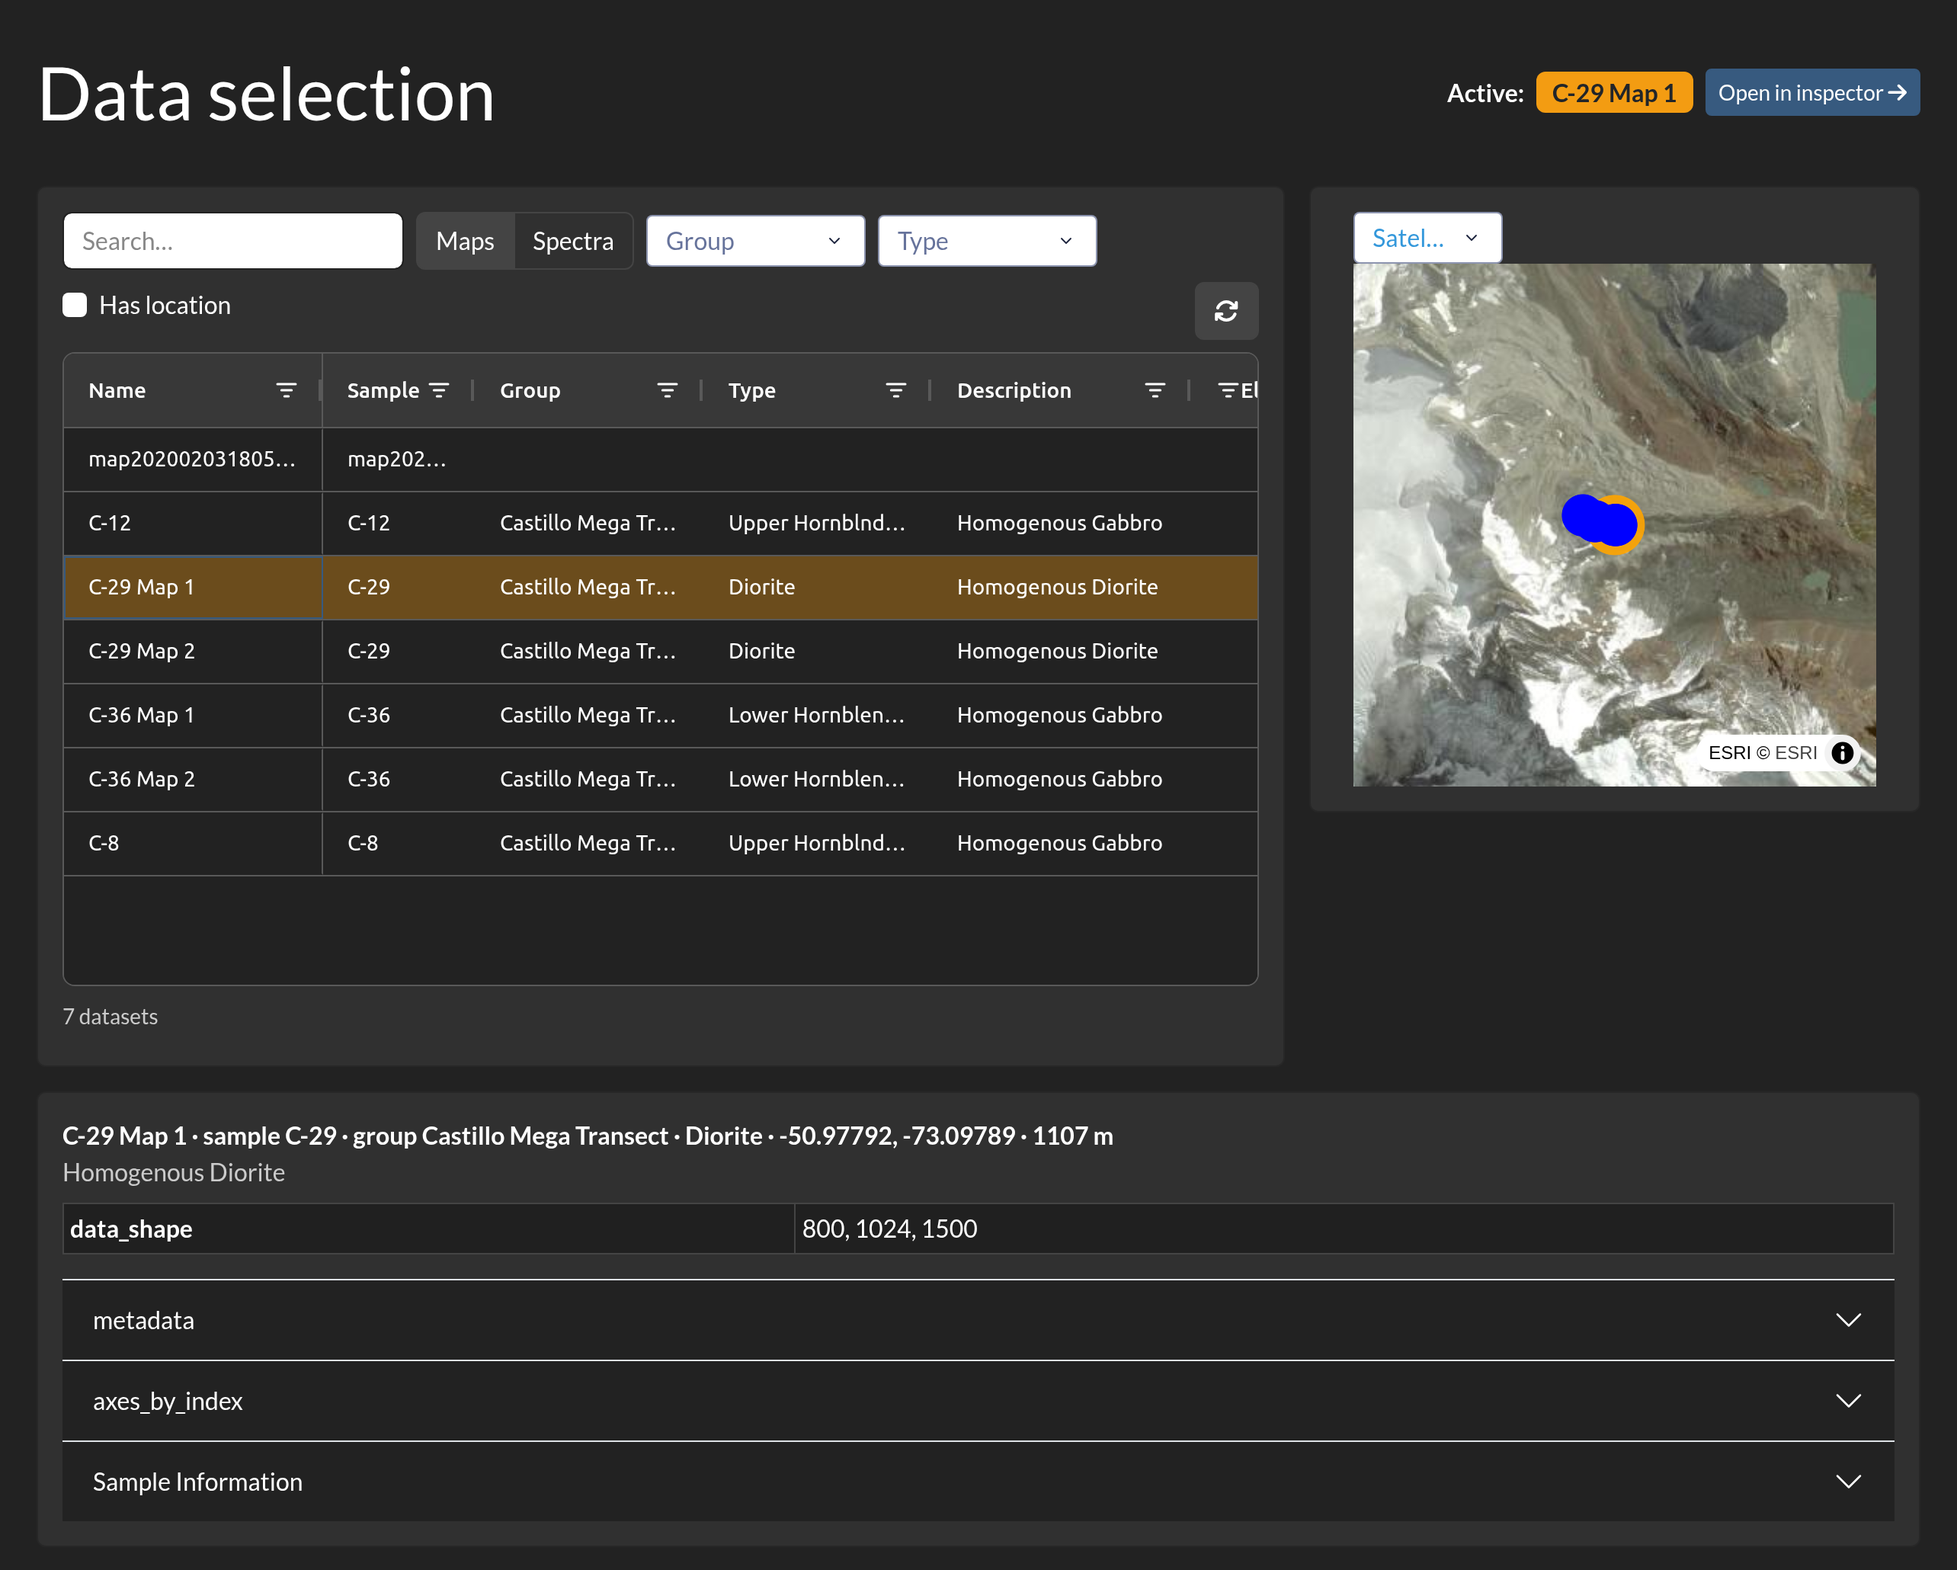
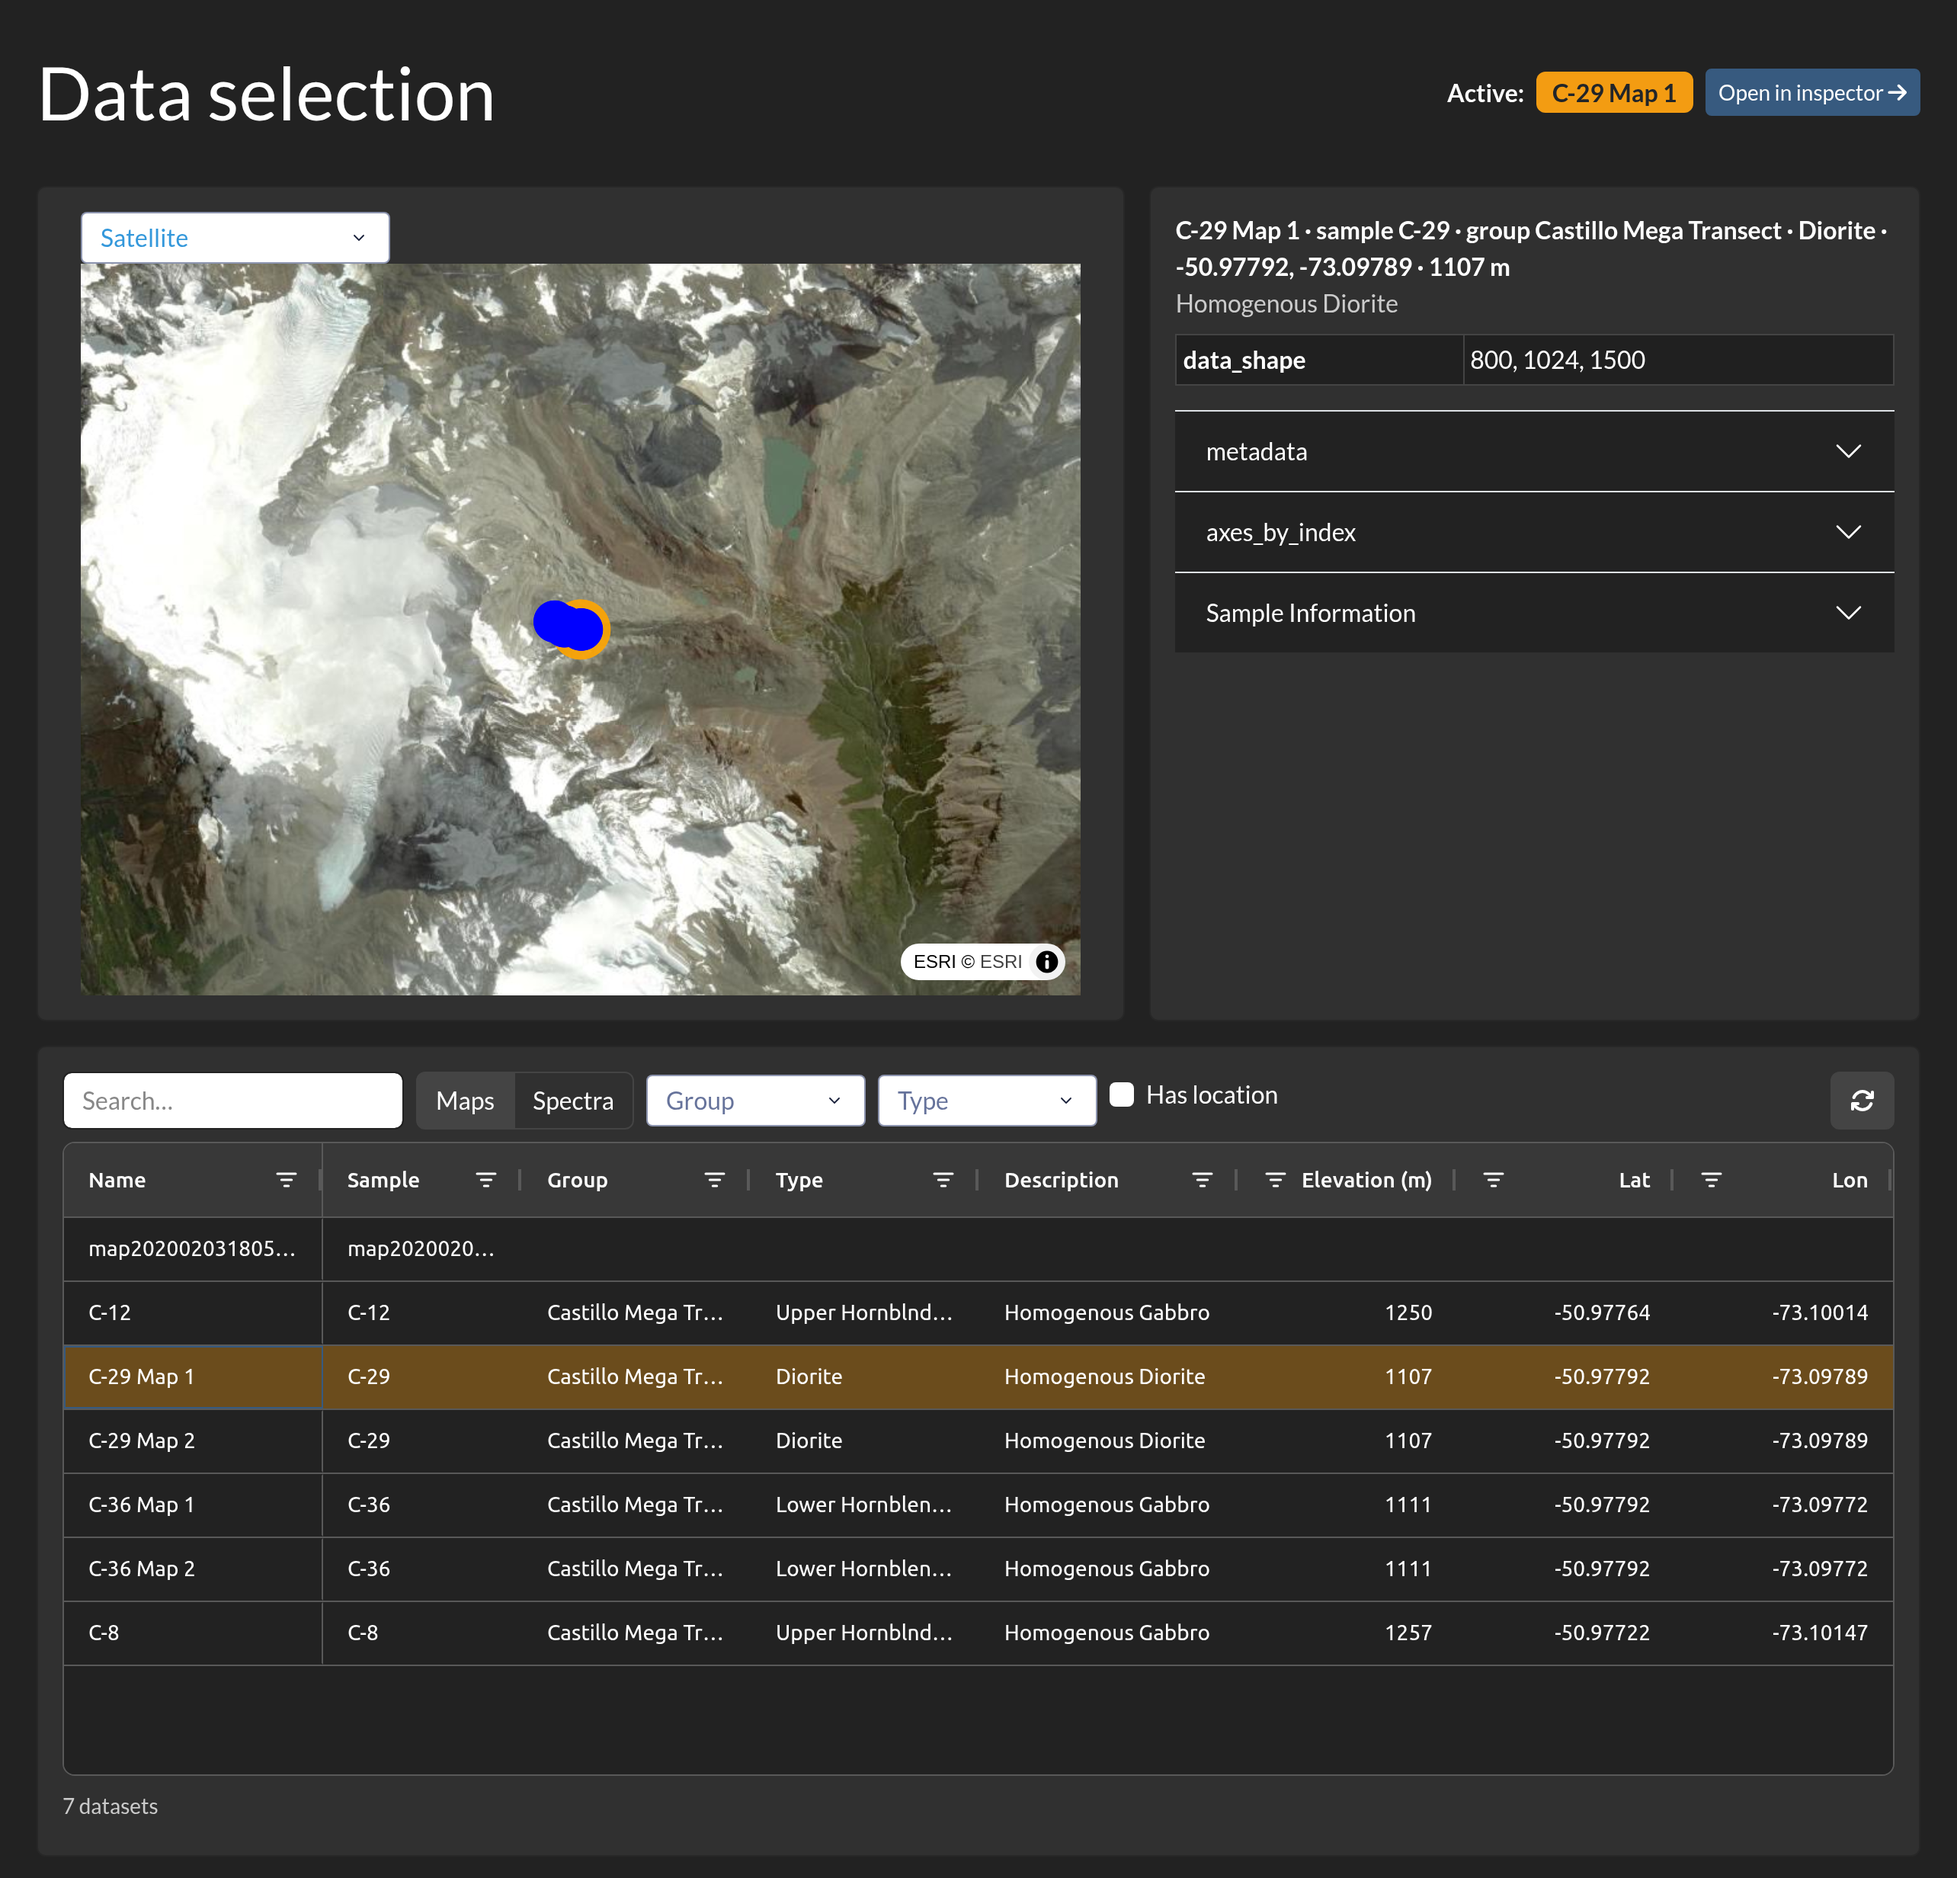
data selection: map and metadata on top, table across the page below
The map gets a wide column at a fixed height; the metadata card sits beside it and scrolls.

diff --git a/packages/spectra_inspector/src/spectra_inspector/assets/layout.css b/packages/spectra_inspector/src/spectra_inspector/assets/layout.css
@@ -344,3 +344,11 @@
   flex: 1 1 auto;
   min-width: 0;
 }
+
+/* The metadata card beside the sample map: no taller than the map's card
+   (the map, its style dropdown and the card padding), scrolling past that. */
+.si-dataset-metadata {
+  height: 100%;
+  max-height: 35.5rem;
+  overflow-y: auto;
+}

diff --git a/packages/spectra_inspector/src/spectra_inspector/pages/getting_started.py b/packages/spectra_inspector/src/spectra_inspector/pages/getting_started.py
@@ -11,8 +11,8 @@ dash.register_page(__name__, name="Getting started", order=2)
 
 DATA_SELECTION_MARKERS = [
     screenshotMarker(
-        target=(1400, 771),
-        badge=(1400, 1190),
+        target=(1400, 1807),
+        badge=(1400, 2260),
         description=(
             "Every dataset is a row of the table, with what the sample sheet "
             "says about its sample. Click a row to select it; double click "
@@ -20,8 +20,8 @@ DATA_SELECTION_MARKERS = [
         ),
     ),
     screenshotMarker(
-        target=(306, 315),
-        badge=(420, 212),
+        target=(306, 1443),
+        badge=(420, 1352),
         description=[
             "Narrow the table: type in the search box, pick one or more values of ",
             html.B("Group"),
@@ -35,8 +35,8 @@ DATA_SELECTION_MARKERS = [
         ],
     ),
     screenshotMarker(
-        target=(689, 315),
-        badge=(689, 212),
+        target=(689, 1443),
+        badge=(689, 1352),
         description=[
             "Switch to ",
             html.B("Spectra"),
@@ -45,8 +45,8 @@ DATA_SELECTION_MARKERS = [
         ],
     ),
     screenshotMarker(
-        target=(1609, 407),
-        badge=(1480, 407),
+        target=(2444, 1443),
+        badge=(2310, 1443),
         description="The refresh button rescans the server for new datasets.",
     ),
     screenshotMarker(
@@ -59,16 +59,16 @@ DATA_SELECTION_MARKERS = [
         ],
     ),
     screenshotMarker(
-        target=(1200, 1835),
-        badge=(1400, 1835),
+        target=(2000, 805),
+        badge=(2000, 1000),
         description=(
             "The selected dataset's sample and metadata. Expand a section to "
             "see its details."
         ),
     ),
     screenshotMarker(
-        target=(2118, 688),
-        badge=(2300, 560),
+        target=(762, 825),
+        badge=(960, 690),
         description=(
             "Each sample is a point on the map, at the location the rock was "
             "collected, with the active dataset's sample ringed. Samples the "
@@ -78,8 +78,8 @@ DATA_SELECTION_MARKERS = [
         ),
     ),
     screenshotMarker(
-        target=(1874, 311),
-        badge=(2060, 311),
+        target=(430, 311),
+        badge=(640, 311),
         description="Switch the basemap between satellite, street and blank styles.",
     ),
 ]
@@ -273,7 +273,7 @@ EXPORT_MARKERS = [
 # each screenshot in assets/getting_started/, by file stem: its size in pixels
 # and its markers, in that image's pixel coordinates
 SCREENSHOTS: dict[str, tuple[tuple[int, int], list[screenshotMarker]]] = {
-    "data_selection": ((2568, 2060), DATA_SELECTION_MARKERS),
+    "data_selection": ((2568, 2464), DATA_SELECTION_MARKERS),
     "inspector_toolbox": ((2160, 688), TOOLBOX_MARKERS),
     "inspector_panels": ((2134, 1036), PANEL_MARKERS),
     "inspector_spectrum": ((2116, 1078), SPECTRUM_MARKERS),

diff --git a/packages/spectra_inspector/src/spectra_inspector/pages/data_selection.py b/packages/spectra_inspector/src/spectra_inspector/pages/data_selection.py
@@ -1,5 +1,5 @@
-"""The data selection page: the dataset table, the sample map and the metadata
-of the selected dataset.
+"""The data selection page: the sample map beside the metadata of the selected
+dataset, and the dataset table across the page below them.
 
 The selection is the value of the (hidden) dataset dropdown, which
 `update_selected_dataset` carries into the user store; everything else on the
@@ -158,6 +158,13 @@ def sample_summary(dataset: str, sample_metadata: dict | None) -> html.Div:
     return html.Div(children, className="mb-2")
 
 
+def metadata_placeholder() -> html.Div:
+    return html.Div(
+        "Select a dataset in the table to see its metadata.",
+        className="text-muted",
+    )
+
+
 def layout(**kwargs) -> html.Div:  # noqa: ARG001
 
     sisi = SpectraInspectorServerInterface()
@@ -184,12 +191,20 @@ def layout(**kwargs) -> html.Div:  # noqa: ARG001
             directory_selector(component_index=0),
             dbc.Row(
                 [
-                    dbc.Col(dbc.Card(dbc.CardBody(_dataset_table)), xs=12, xl=8),
-                    dbc.Col(dbc.Card(dbc.CardBody(base_map)), xs=12, xl=4),
+                    dbc.Col(dbc.Card(dbc.CardBody(base_map)), xs=12, xl=7),
+                    dbc.Col(
+                        # as tall as the map beside it, scrolling past that
+                        dbc.Card(
+                            dbc.CardBody(metadata_placeholder(), id="metadata-display"),
+                            className="si-dataset-metadata",
+                        ),
+                        xs=12,
+                        xl=5,
+                    ),
                 ],
                 className="g-3 mt-0",
             ),
-            html.Div(id="metadata-display", className="mt-3"),
+            dbc.Card(dbc.CardBody(_dataset_table), className="mt-3"),
         ]
     )
     return _layout
@@ -242,16 +257,12 @@ def update_selected_dataset(
         sample_metadata = new_user_data.get("sample_metadata")
         # the same dict the summary export writes out
         meta_dict = sample_metadata_display_dict(meta, sample_metadata, input_value)
-        md = dbc.Card(
-            dbc.CardBody(
-                [
-                    sample_summary(input_value, sample_metadata),
-                    nested_accordian(meta_dict),
-                ]
-            )
-        )
+        md = [
+            sample_summary(input_value, sample_metadata),
+            nested_accordian(meta_dict),
+        ]
     else:
-        md = html.Div()
+        md = metadata_placeholder()
     new_user_data = updateDataStore(new_user_data, "metadata_json", meta_json_str)
 
     active = active_dataset_display(input_value if has_input else None, spectrum_only)

diff --git a/packages/spectra_inspector/src/spectra_inspector/components/sample_map.py b/packages/spectra_inspector/src/spectra_inspector/components/sample_map.py
@@ -24,6 +24,8 @@ _map_styles = {
 RING_TRACE = 0
 SAMPLE_TRACE = 1
 
+MAP_HEIGHT = "30rem"
+
 _SAMPLE_COLOR = "blue"
 _RING_COLOR = "orange"
 _DIMMED_OPACITY = 0.25
@@ -383,10 +385,9 @@ def get_layout(
                     dcc.Graph(
                         figure=fig,
                         id=IDS.get_id_with_index("samplemap"),
-                        style={
-                            "aspectRatio": "1 / 1",  # or "4 / 3", "16 / 9", etc.
-                            "width": "100%",
-                        },
+                        # a fixed height, so the map takes whatever width
+                        # its column has without growing taller with it
+                        style={"height": MAP_HEIGHT, "width": "100%"},
                     ),
                     width=12,
                 )

diff --git a/packages/spectra_inspector/src/spectra_inspector/tests/test_data_selection.py b/packages/spectra_inspector/src/spectra_inspector/tests/test_data_selection.py
@@ -278,7 +278,7 @@ def test_update_selected_dataset_clears_the_selection(page, mocker):
 
     sisi.get_combined_image_metadata.assert_not_called()
     assert "No dataset" in active[0].children
-    assert metadata.children is None
+    assert "Select a dataset" in metadata.children
     assert store["selected_dataset"] is None
     assert store["sample_metadata"] == LISTING["sample_metadata"]
 
